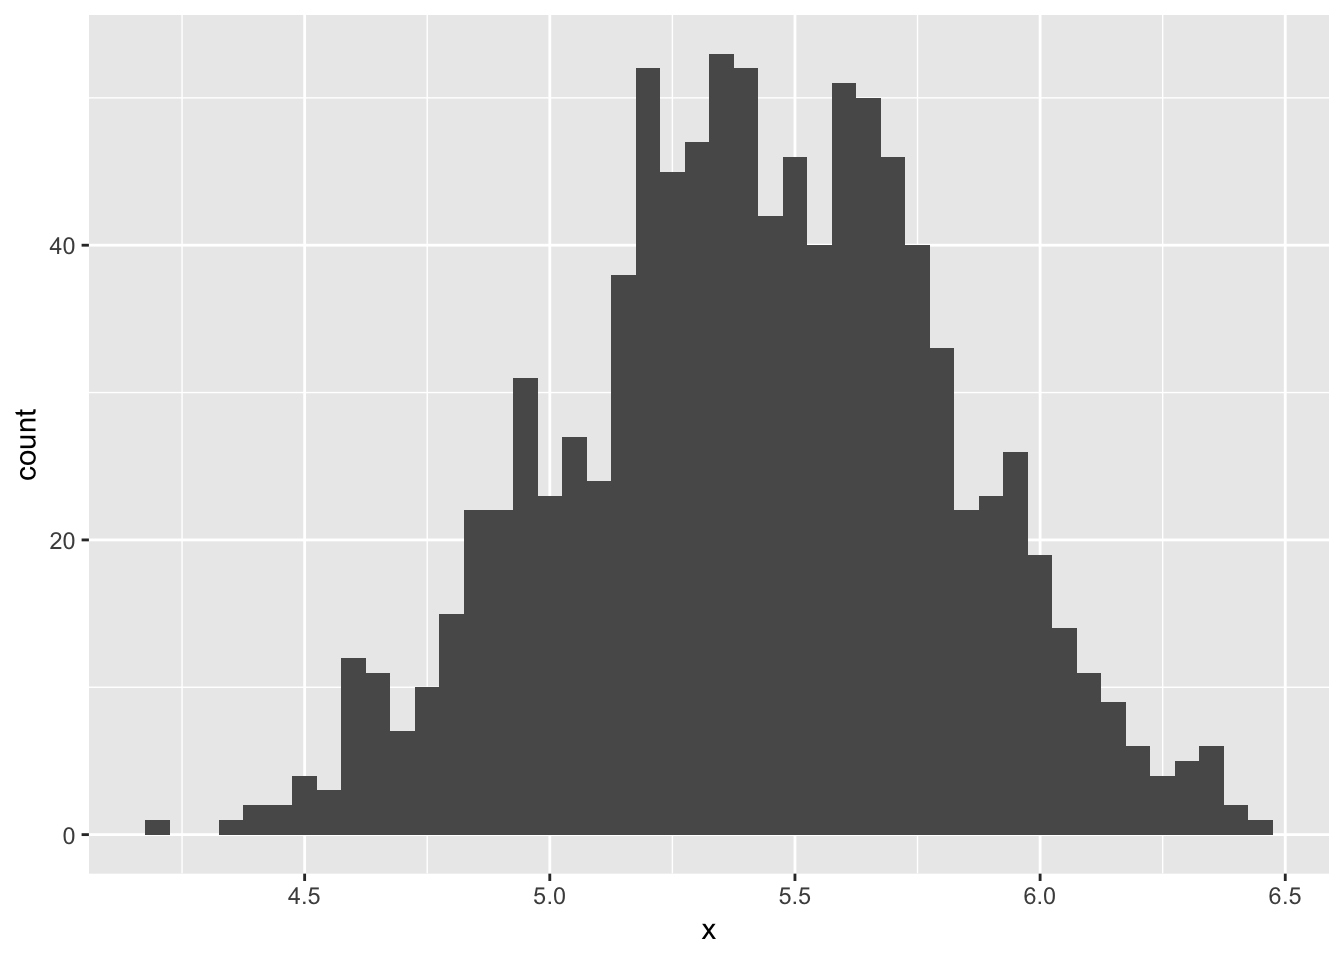
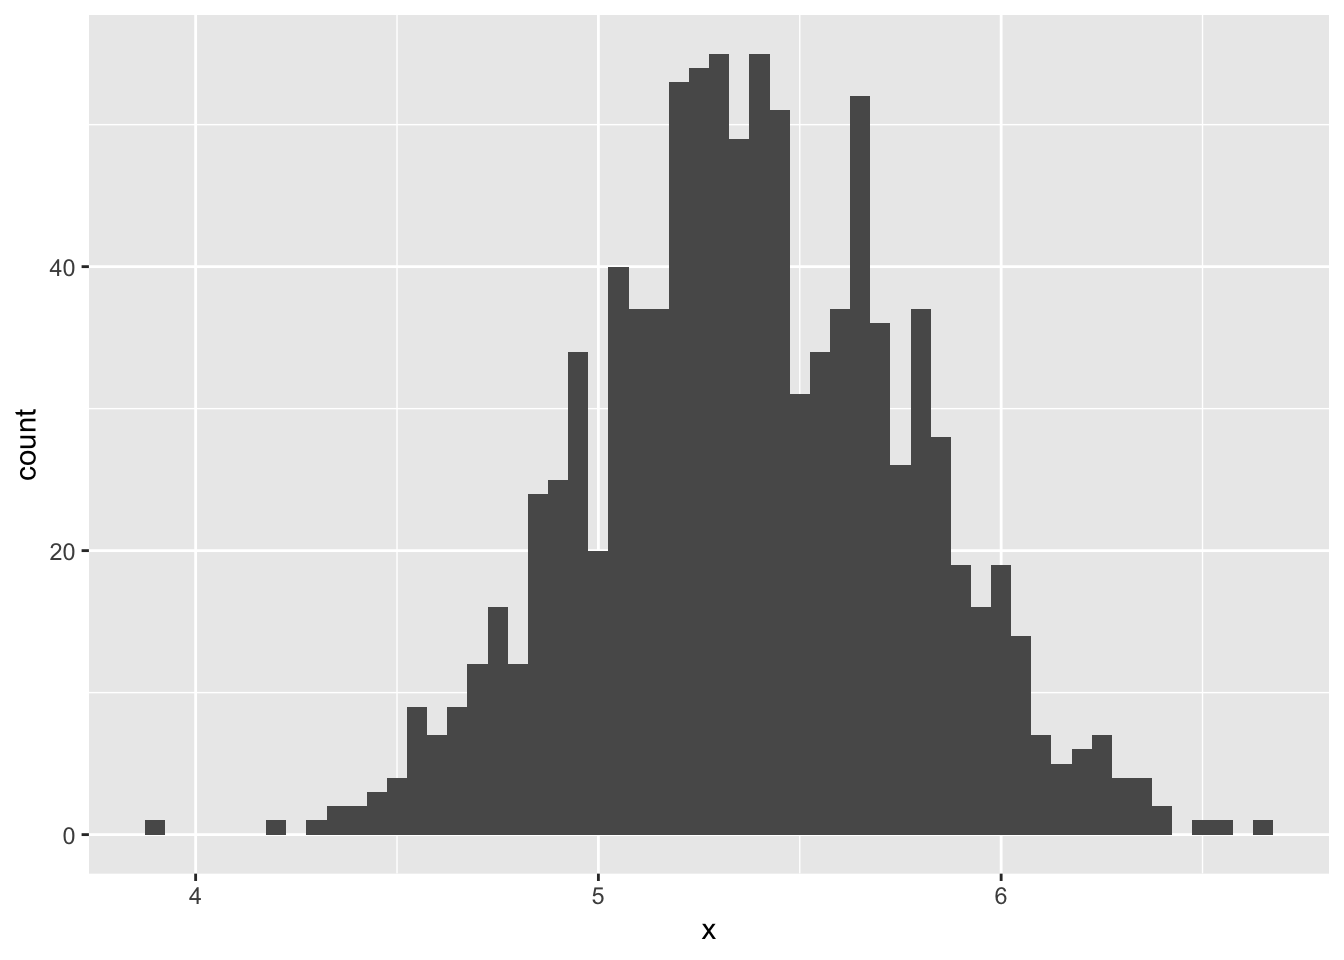
finish ch2q5

diff --git a/docs/ch2.html b/docs/ch2.html
@@ -384,7 +384,7 @@ ggplot(df, aes(x = x)) +
         args = with(df, c(mean = mean(x), sd = sd(x)))
     )</code></pre>
 <p><img src="ch2_files/figure-html/unnamed-chunk-9-1.png" width="672" /></p>
-<p>There don’t appear to be any particularly startling differences between the histogram and the normal curve, other than a small jump slightly above 10 that seems to be unexpectedly high above the curve (though I’m not going to spend the time to see if this is just an artifact of binning).</p>
+<p>There don’t appear to be any particularly startling differences between the histogram and the normal curve, though if we were trying to get the most exact match possible changing around the binwidth might provide a more exact match.</p>
 <h1>
 Question 4
 </h1>
@@ -401,14 +401,30 @@ theoretical_mean &lt;- mean(mens_height) - mean(womens_height)
 theoretical_sd &lt;- sqrt(sd(mens_height)**2 + sd(womens_height)**2)
 theoretical &lt;- paste0(&quot;Theoretical mean is &quot;,theoretical_mean,&quot;. &quot;,&quot;Std. deviation is &quot;,theoretical_sd)
 cat(simulated,&quot;\n&quot;,theoretical)</code></pre>
-<pre><code>## Mean of 1000 simulations is 5.42141052594428. Std. deviation is 0.392002707091808 
+<pre><code>## Mean of 1000 simulations is 5.37922647596153. Std. deviation is 0.399643531352712 
 ##  Theoretical mean is 5.39999999999999. Std. deviation is 3.96232255123179</code></pre>
 <p>The mean of the simulated <span class="math inline">\(x-y\)</span> closely approximates the theoretical because of the large number of total simulations, both in the 100 draws each of x and y and the repetition of the operation 1000 times. However the variance the of the simulation is lower due to the fact that the mean of 100 draws is being subtracted rather than simply subtracting a single draw of x from another single draw of y. This would produce a result like that below:</p>
 <pre class="r"><code>sd(r(mens_height)(1000) - r(womens_height)(1000))</code></pre>
-<pre><code>## [1] 3.929627</code></pre>
+<pre><code>## [1] 3.896999</code></pre>
 <pre class="r"><code>mean(r(mens_height)(1000) - r(womens_height)(1000))</code></pre>
-<pre><code>## [1] 5.303222</code></pre>
+<pre><code>## [1] 5.2395</code></pre>
 <p>In the simulation above <span class="math inline">\(x-y\)</span> is closer to the theoretical value of the variance (though slightly farther from the mean) due to the number of draws as mentioned above.</p>
+<h1>
+Question 5
+</h1>
+<p>Correlated random variables: suppose that the heights of husbands and wives have a correlation of 0.3. Let <span class="math inline">\(x\)</span> and <span class="math inline">\(y\)</span> be the heights of a married heterosexual couple chosen at random. What are the mean and standard deviation of the average height, <span class="math inline">\((x+y)/2\)</span> ?</p>
+<p>Formulas for mean and variance of sum of correlated random variables:</p>
+<p><span class="math display">\[ 
+\sigma_{ax+by} = \sqrt{a^{2}\sigma_{x}^{2} + b^{2}\sigma_{y}^{2} + 2ab\rho\sigma_{x}\sigma_{y}} \\ 
+\mu_{ax+by} = a\mu_{x} + b\mu_{y} \\
+avg.height = x+y/2 = .5x + .5y \\
+\rho = .3 , \mu_{x} = 69.1, \sigma_{x} = 2.9, \mu_{y} = 63.7, \sigma_{y} = 2.7,a=b=.5
+\]</span></p>
+<p>Using the above formulas and plugging in the given information from the question into R we get the following:</p>
+<pre class="r"><code>couple_mean = .5*mean(mens_height) + .5*mean(womens_height)
+couple_sd = sqrt(.5**2*sd(mens_height)**2 + .5**2*sd(womens_height)**2 + (2*.5*.5*.3*sd(mens_height)*sd(womens_height)))
+cat(paste(&quot;The mean average height of a married couple (x+y/2) is&quot;,couple_mean,&quot;and the sd is&quot;,couple_sd,&quot;.&quot;))</code></pre>
+<pre><code>## The mean average height of a married couple (x+y/2) is 66.4 and the sd is 2.25820725355314 .</code></pre>
 
 
 
